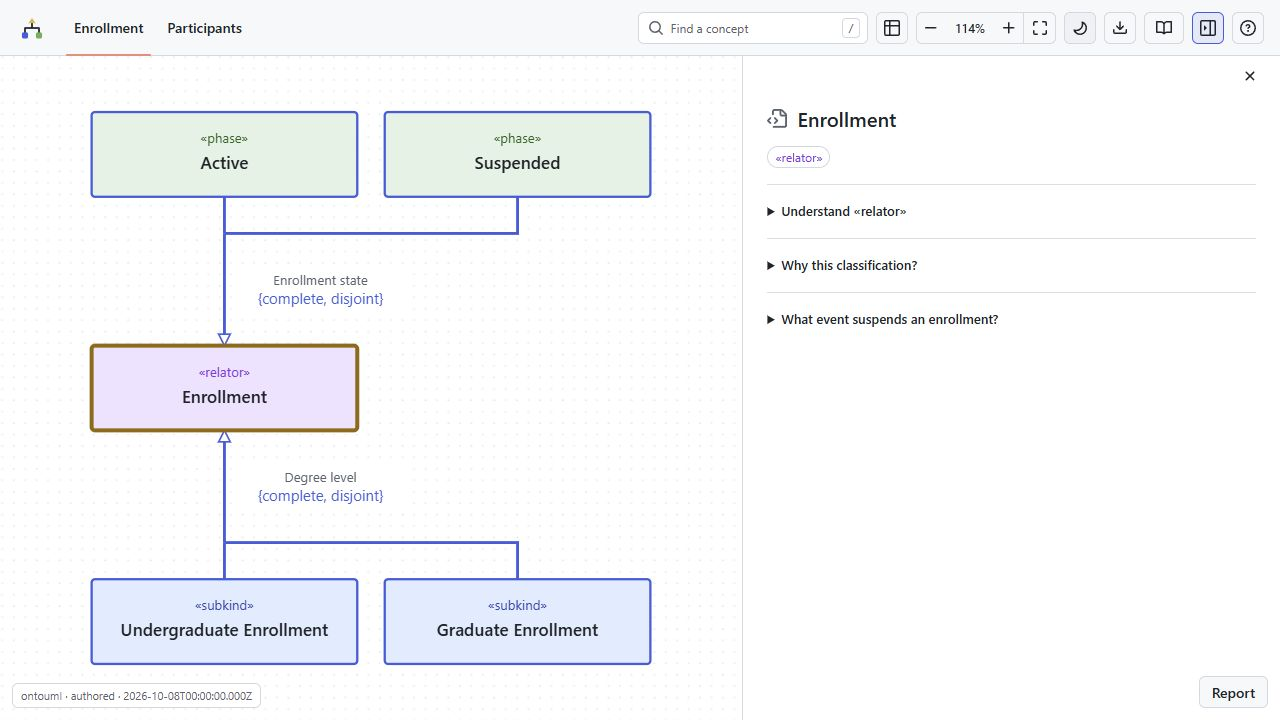
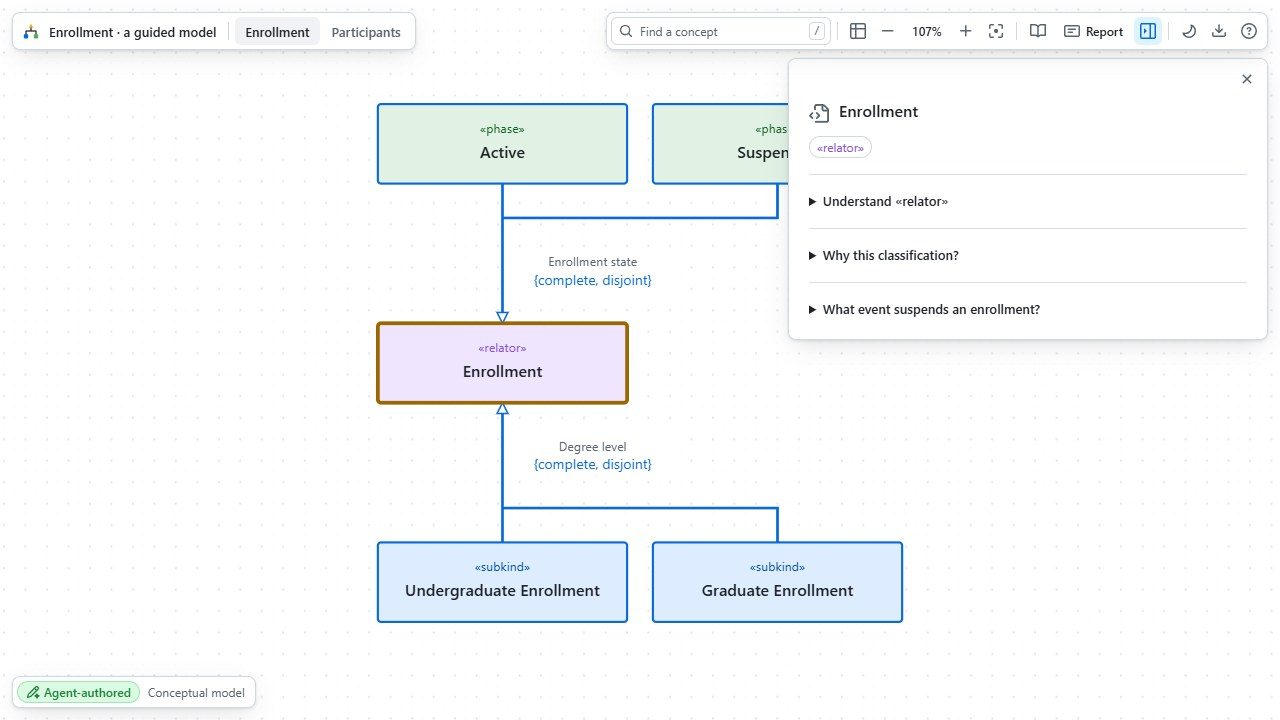
Document the overlay viewer, provenance and Baseline/Changes
Update embedding, viewer and comparison docs for the floating toolbar
layout, the leading/fullscreen props and describeProvenance, and refresh
README screenshots from real standalone exports.

diff --git a/docs/viewer.md b/docs/viewer.md
@@ -2,13 +2,13 @@
 
 ## Viewer behavior
 
-Scroll or pinch to zoom slowly and smoothly. Drag to pan. Hover takes priority over selection in the wide sidebar. Hover or selection dims unrelated elements; a relation keeps only itself and its two endpoints highlighted. The active entity, relation or inheritance branch is amber; connected elements are blue. Arrowheads, aggregation diamonds, relation labels and counts follow the active relation's color. A selected element has a slightly thicker outline. Controls provide immediate hover, pressed, focus and open/selected feedback. Selection survives navigation, theme changes and field toggling. Clicking the background or pressing Escape clears it.
+Scroll or pinch to zoom slowly and smoothly. Drag to pan. Hover takes priority over selection in the details panel. Hover or selection dims unrelated elements; a relation keeps only itself and its two endpoints highlighted. The active entity, relation or inheritance branch is amber; connected elements are blue. Arrowheads, aggregation diamonds, relation labels and counts follow the active relation's color. A selected element has a slightly thicker outline. Controls provide immediate hover, pressed, focus and open/selected feedback. Selection survives navigation, theme changes and field toggling. Clicking the background or pressing Escape clears it.
 
 Scrolling, dragging, pinch gestures, zoom buttons and Fit share one frame-synchronized camera animation. Input accumulates without dropping movement, zoom stays anchored under the cursor, and drag follows more tightly than zoom. The grid shares the diagram's world origin and zoom; neighboring dot densities blend smoothly without gaps after large or negative pans. Reduced-motion preferences apply movements immediately.
 
 Each association shows counts at both ends. Inheritance uses a hollow triangle and no counts. Routes have only horizontal and vertical segments, checked during generation. GitHub Dark Dimmed is the default; light is available and remembered when browser storage permits. Entity backgrounds distinguish kinds (blue), roles (orange), relators (purple), phases (green), events (red) and modes (cyan) in both themes and SVG exports. Source snippets include line numbers and pinned GitHub links. SVG, standard JSON, evidence, views, notes, validation and ZIP downloads work directly from disk.
 
-The navigation and inspector use GitHub-style controls and locally bundled Octicons. Controls use icons with tooltips; descriptions and learning explanations expand on demand. Press `/` to focus concept search. On narrow screens, diagram controls move to a second navigation row while view tabs scroll horizontally. Use the sidebar toggle or its close button to hide details without clearing selection. The diagram gains the full width, and the sidebar stays hidden while hovering, selecting, panning, zooming or switching views. Reopening shows the hovered element, otherwise the selection; with neither, no details are shown. Learn explicitly opens the learning sidebar. Clicking the background or pressing Escape still clears selection.
+The grid canvas fills the whole viewer; every control floats over it in GitHub-style islands with locally bundled Octicons. The top-left island holds view tabs (only when there is more than one view) and, for proposals, the `Baseline | Changes` control and change summary. The top-right island holds concept search, the attribute toggle, zoom, Fit, Learn, Report and the details toggle (plus theme, exports and help in offline exports). A provenance label at the bottom left states whether the model was generated from code or a database, proposed by an agent or authored by an agent, with the source, capture date and coverage. Controls use icons with tooltips; descriptions and learning explanations expand on demand. Press `/` to focus concept search, `+`/`−` to zoom and `0` to fit. Fit fills the area left between the floating controls, enlarging small diagrams up to 150%. In narrow containers, search collapses to a button with an anchored field and the details panel spans the width. Details float on the right below the toolbar; use the details toggle or its close button to hide them without clearing selection, and they stay hidden while hovering, selecting, panning, zooming or switching views. Reopening shows the hovered element, otherwise the selection; with neither, no details are shown. Learn explicitly opens the learning library. Clicking the background or pressing Escape still clears selection.
 
 Pointer highlights commit immediately, with no hover debounce. A new highlight is visible immediately at 70% opacity and settles over 80 ms; the cached background dims or restores over 100 ms. These brief fades are disabled for reduced motion. An open inspector follows the same input commit; only opening a hover-only sidebar waits 100 ms to avoid covering a click target. Diagram geometry is memoized, adjacency is indexed once per immutable scene, and highlights draw a small overlay above a cached transparent SVG image. The SVG retains accessible interaction targets and vector fallback rendering. Rounded zoom updates reach only their readout; panning reuses the grid's raster settings. Pass `backgroundURL` to `DiagramCanvas` or `UMLDiagram` when embedding a matching transparent SVG image in a custom UI; the complete viewer creates it automatically. Replace scene/model objects when changing their contents.
 

diff --git a/docs/embedding.md b/docs/embedding.md
@@ -1,16 +1,21 @@
 # Native embedding
 
-Import `AtlasPanel` from `ontouml-atlas/react` and `ontouml-atlas/embedded.css`. Pass a `prepareViewer({document, includeArtifacts:false}).payload`, a host-controlled `theme` (`dark` or `light`), an optional semantic `focus` target, and `onReference(record)` to navigate retained planning references. This component consumes the same model/scene as offline exports. It does not require HTML, an iframe, an archive, a model service, or a connection to captured sources.
+Import `AtlasPanel` from `ontouml-atlas/react` and `ontouml-atlas/embedded.css`. Pass a `prepareViewer({document, includeArtifacts:false}).payload`, a host-controlled `theme` (`dark` or `light`), an optional semantic `focus` target, and `onReference(record)` to navigate retained planning references. `leading` renders host content (such as a model picker) at the start of the floating top-left toolbar. Passing `onFullscreenChange(next)` adds a fullscreen toggle to the top-right toolbar; the host owns the `fullscreen` state and layout. This component consumes the same model/scene as offline exports. It does not require HTML, an iframe, an archive, a model service, or a connection to captured sources.
 
 ```tsx
 <AtlasPanel
   key={modelHandle}
   payload={payload}
   theme="dark"
+  leading={<ModelPicker />}
+  fullscreen={fullscreen}
+  onFullscreenChange={setFullscreen}
   onReference={(record) => navigateToPlan(record.path, record.section)}
 />
 ```
 
+`describeProvenance(document)` returns `{ kind, label, detail, tone }` for an Atlas document or a viewer model's `document`: `Generated from code` or `Generated from database` (`accent`) with `<source> · <identity> · captured Oct 8, 2026 · complete coverage`, `Agent proposal` (`done`) with `Changes to source captured <date>`, or `Agent-authored` (`success`) with `Conceptual model`/`Structural model`; imported documents append `· Imported`. `ProvenanceBadge` renders the same label and detail. Hosts can reuse both to keep wording and colors identical.
+
 Use the handle as a React key when switching documents. Authored payload revisions preserve selection when its semantic element remains visible; camera state is local and keyed to the view. Hiding the inspector keeps selection and camera. External `focus` changes reveal an element; identical focus targets do not repeatedly move the camera. Empty source scopes show an explicit empty model.
 
-The embedded stylesheet is generated from the existing UI/diagram rules, scoped under `.atlas-panel`. It never sets host root theme, body overflow, or global button styles. The panel needs a sized container (for example, `height:600px`); controls adapt to narrow layouts, where the inspector overlays the canvas. Keep source capture dates/coverage visible; imported capture claims remain marked as imported. Hosts resolve plan/code references according to their own containment/navigation rules and own model edits separately from visualization.
+The embedded stylesheet is generated from the existing UI/diagram rules, scoped under `.atlas-panel`. It never sets host root theme, body overflow, or global button styles. `.atlas-panel` fills its sized container (for example, `height:600px`); the grid canvas is full-bleed and every control floats over it. Controls adapt to the panel's own width through container queries, so narrow cards collapse search and widen the floating details panel. Keep source capture dates/coverage visible; imported capture claims remain marked as imported. Hosts resolve plan/code references according to their own containment/navigation rules and own model edits separately from visualization.

diff --git a/docs/comparison.md b/docs/comparison.md
@@ -1,6 +1,6 @@
 # Proposals and comparison
 
-Create a proposal with `createProposal(baseline)` or `atlas_proposal`. Source snapshots stay frozen. An authored reference model is frozen explicitly with an `atlas-authored-baseline` label; this is not an extraction claim. Baseline, Proposed and Changes use one union layout so entities and routes stay in place when you switch. Added, removed and modified elements have green, red and amber accents. Changes retain removed entities and excerpts, before/after properties, linked planning rationale and unresolved merge choices. A missing rationale stays visible.
+Create a proposal with `createProposal(baseline)` or `atlas_proposal`. Source snapshots stay frozen. An authored reference model is frozen explicitly with an `atlas-authored-baseline` label; this is not an extraction claim. Baseline and Changes use one union layout so entities and routes stay in place when you switch; Changes is the default and shows the proposal with its changes highlighted. Added, removed and modified elements have green, red and amber accents. The change summary (`+added −removed ~modified`) opens a list grouped by kind, naming each element with before → after properties, linked rationale and an Inspect action. Changes retain removed entities and excerpts, before/after properties, linked planning rationale and unresolved merge choices. A missing rationale stays visible.
 
 Comparison matches stable IDs, including fields, methods, relation properties and generalization sets. Names do not establish identity. Coordinates, source positions and diagram records are presentation; counts, types, stereotype and generalization-set constraints are semantic. `compareModels` supplies raw differences; `compareDocuments` also attaches evidence and selected context. `atlas_compare` returns a paginated change list, defaulting to the proposal's retained baseline. Comparison views show separate inheritance arrows to keep changed routes unambiguous; ordinary views still support named joined inheritance.
 

diff --git a/README.md b/README.md
@@ -50,11 +50,11 @@ Bounds: database 200 tables / 4,000 columns / 8 MiB metadata; code eight project
 
 - Standard [OntoUML exchange JSON](https://github.com/OntoUML/ontouml-schema) and versioned [Atlas documents](docs/architecture.md) keep model semantics separate from scenes and UI.
 - [CLI/stdio MCP](docs/agent-interface.md) persist models under `.atlas`, enforce expected revisions and return focused bounded results. Use [worktrail-atlas](https://github.com/envsemble/worktrail/tree/main/skills/worktrail-atlas) with your existing coding agent.
-- [Proposals](docs/comparison.md) retain frozen baselines. Baseline/Proposed/Changes share positions; three-way conflicts remain explicit until resolved. Cross-layer mappings are authored links.
+- [Proposals](docs/comparison.md) retain frozen baselines. Baseline/Changes share positions; three-way conflicts remain explicit until resolved. Cross-layer mappings are authored links.
 - The [Worktrail dashboard](https://github.com/envsemble/worktrail/tree/main/dashboard) embeds Atlas directly in React. Elements link to selected plan passages, glossary, decisions and retained code evidence.
 - [Learning reports](docs/learning-reports.md) include walkthroughs, finite scenario checks, glossary, source dates, coverage, SVG diagrams and printing. Exported HTML can be imported and revised later.
 
-![Semantic comparison highlights a proposed Course while retaining baseline identities](assets/comparison-dark.jpg)
+![Agent proposal compared with its captured baseline: Baseline and Changes modes, and a change list grouping added and modified elements with before and after values and linked rationale](assets/comparison-dark.jpg)
 
 ## Library and React
 
